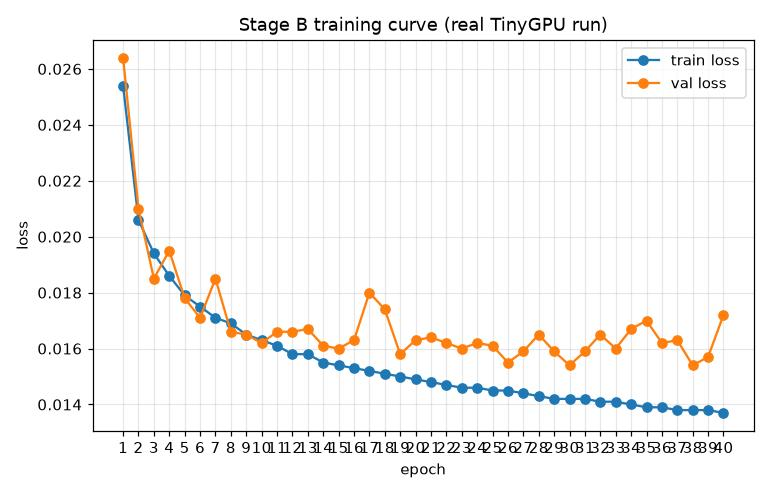
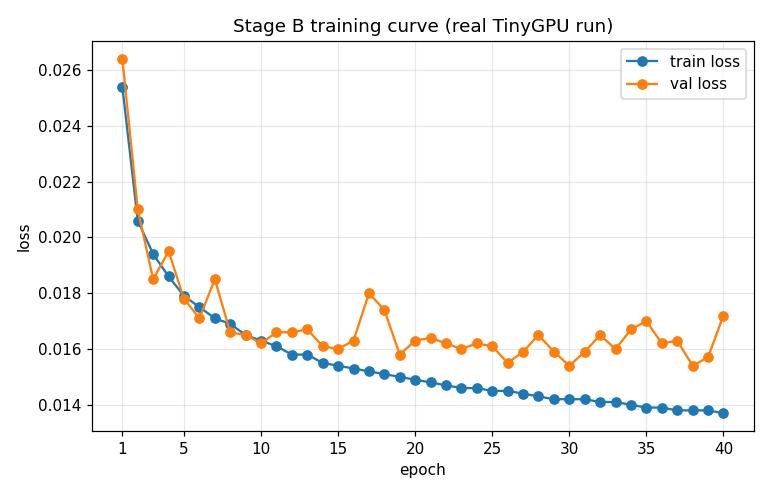
Training curves: label every 5th epoch when a run has more than 20 epochs

diff --git a/scripts/visualize_stage_a_results.py b/scripts/visualize_stage_a_results.py
@@ -94,7 +94,8 @@ def plot_training_curve(records, out_path, title="Stage A training curve (real T
     ax.set_xlabel("epoch")
     ax.set_ylabel(ylabel)
     ax.set_title(title)
-    ax.set_xticks(epochs)
+    # one label per epoch overlaps beyond ~20 epochs: then label epoch 1 and every 5th
+    ax.set_xticks(epochs if len(epochs) <= 20 else [e for e in epochs if e == 1 or e % 5 == 0])
     ax.legend()
     ax.grid(alpha=0.3)
     fig.tight_layout()
